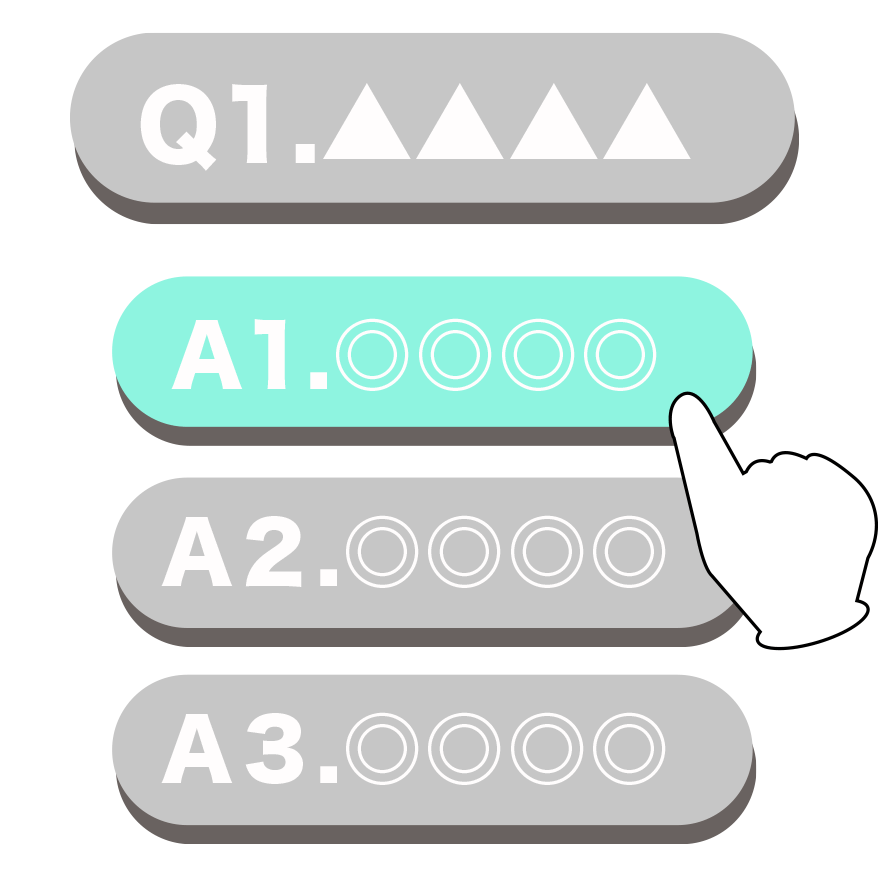
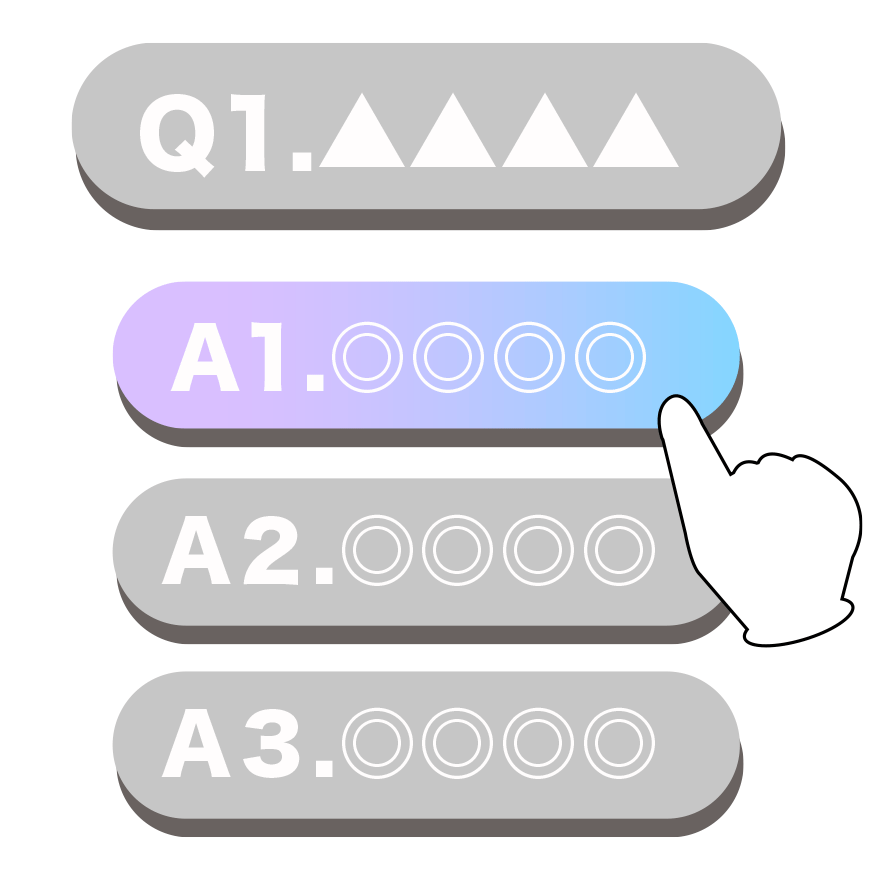
commit

diff --git a/app/assets/stylesheets/rooms/diagnoses.scss b/app/assets/stylesheets/rooms/diagnoses.scss
@@ -29,7 +29,7 @@ body {
 }
 
  .choose_box p {
-   padding-top: 80px;
+   padding-top: 55px;
     font-size: 24px;
     display: block;
     font-weight: 600;
@@ -122,7 +122,7 @@ h4 {
 
 .start-btn{
   width: 40%;
-  margin-top: 80px;
+
 }
 
 .start-btn:hover {
@@ -177,6 +177,7 @@ h4 {
   height: 100vh;
   display: flex;
   justify-content: center;
+  border-radius: 12%;
 }
 
 .answer_01 a,.answer_02 a,.answer_03 a {

diff --git a/app/assets/stylesheets/shared/header.css b/app/assets/stylesheets/shared/header.css
@@ -15,9 +15,8 @@
   align-items: center;
 }
 
-.furima-icon {
+.ps-icon {
   width: 18vw;
-  margin-right: 10vw;
 }
 
 
@@ -108,4 +107,26 @@
   color: #fff;
   background: #AB99FF;
 }
+
+.top-page-footer {
+  width: 100vw;
+  padding: 2vh;
+  display: flex;
+  justify-content: center;
+}
+
+
+
+.footer-contents {
+ width: 20px;
+}
+
+.diagnoses-header {
+  width: 100vw;
+  height: 10vh;
+  padding: 0 8vh;
+}
+
+
+
 

diff --git a/config/webpack/environment.js b/config/webpack/environment.js
@@ -1,4 +1,5 @@
-const { environment } = require('@rails/webpack')
+const { environment } = require('@rails/webpacker')
+// const { environment } = require('@rails/webpack')
 const webpack = require('webpack')
 
 environment.plugins.prepend('Provide',

diff --git a/app/assets/stylesheets/diagnoses/index.scss b/app/assets/stylesheets/diagnoses/index.scss
@@ -363,5 +363,7 @@ color: #AB99FF;
 }
 
 .stylist-intro {
+  text-align: center;
   width: 80%;
+  margin: 0 auto;
 }
